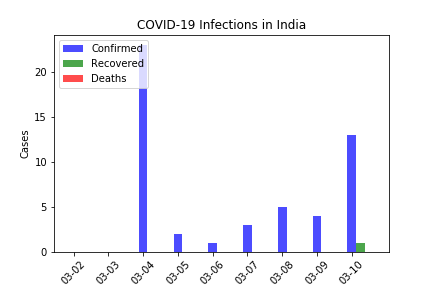
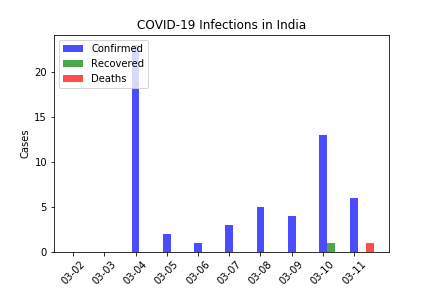
Update 2020-03-12 02:23:46

diff --git a/covid19.py b/covid19.py
@@ -32,16 +32,31 @@ def make_graph(country, start_date, show_score = False):
             country_correction = {'US': 'United States','Mainland China':'China'}
             population = CountryInfo(country_correction[country]).population()
     
-    for i in range(delta.days + 1):
-        day = (start_date + timedelta(days=i)).strftime('%m-%d-%Y')
-        r = requests.get(raw_link.format(day))
+    for i in range(delta.days):
+        day = (start_date + timedelta(days=i))
+        str_day = day.strftime('%m-%d-%Y')
+        r = requests.get(raw_link.format(str_day))
         sub_data = list()
+        
+        if day > date(2020, 3, 10):
+            # they changed the name
+            if country == 'Mainland China': country = 'China'
         
         if r.status_code == 404:
             break
         
         if country in countries_split_in_provinces:
             sub_total = {'posit':0, 'death':0, 'recov':0}
+            
+        matches = len(re.findall(country, r.text))
+        if matches == 0:
+            continue
+        elif matches == 1:
+            country_has_provincies = False
+        else:
+            country_has_provincies = True
+            sub_total = {'posit':0, 'death':0, 'recov':0}
+            
         
         rows = r.text.splitlines()
         for row in rows:
@@ -49,30 +64,33 @@ def make_graph(country, start_date, show_score = False):
             # Some country have a comma that creates troubble
             if len(row_slice) == 7 or len(row_slice) == 9:
                 row_slice[0:2] = [''.join(row_slice[0:2])]
-                
+            
             if country in provincies:
                 if re.match(country, row_slice[0]):
                     sub_data = row_slice
-            else: # country not in provincies
-                if re.match(country, row_slice[1]):
-                    sub_data = row_slice
-                
-                    if country in countries_split_in_provinces:
-                        sub_total['posit'] += int(sub_data[3])
-                        sub_total['death'] += int(sub_data[4])
-                        sub_total['recov'] += int(sub_data[5])
+            else:   
+                if country_has_provincies is False:
+                    if re.match(country, row_slice[1]):
+                        sub_data = row_slice
+                else:
+                    if re.match(country, row_slice[1]):
+                        sub_data = row_slice
+                    
+                        if country_has_provincies:
+                            sub_total['posit'] += int(sub_data[3])
+                            sub_total['death'] += int(sub_data[4])
+                            sub_total['recov'] += int(sub_data[5])
 
         if len(sub_data) == 0:
             continue
         else:
-            sub_data[2] = day[:5]
+            sub_data[2] = str_day[:5]
 
-            if country in countries_split_in_provinces:
+            if country_has_provincies:
                 sub_data[3] = sub_total['posit']
                 sub_data[4] = sub_total['death']
                 sub_data[5] = sub_total['recov']
         
-       
         data.append(sub_data)
         
     if len(data) == 1: # skip dataframe with only one entry
@@ -81,7 +99,7 @@ def make_graph(country, start_date, show_score = False):
     df = pd.DataFrame(data, columns=header)
     df = df.drop(columns= ['Province/State','Country/Region','Latitude', 'Longitude'])
     #df = df.drop(columns= ['Latitude', 'Longitude'])
-    
+
     df['Confirmed'] = df['Confirmed'].astype('int')
     df['Recovered'] = df['Recovered'].astype('int')
     df['Deaths'] = df['Deaths'].astype('int')
@@ -187,6 +205,7 @@ def main():
     
     # Asia
     make_graph('Mainland China', start_date)
+    '''
     make_graph('Hubei', start_date)
     make_graph('Zhejiang', start_date)
     make_graph('South Korea', start_date)
@@ -216,7 +235,6 @@ def main():
   
     # Americas
     make_graph('US', start_date)
-    make_graph('Washington', start_date)
     make_graph('Canada', start_date)
     make_graph('Argentina', start_date)
     make_graph('Cambodia', start_date)
@@ -231,7 +249,7 @@ def main():
     # Score
     make_graph('Italy', start_date, True)
     make_graph('Mainland China', start_date, True)
-   
+    '''
 if __name__ == "__main__":
     main()
     

diff --git a/README.md b/README.md
@@ -6,7 +6,7 @@ If you wish to add a Country open an [Issue](https://github.com/aster94/COVID-19
 It is based on the database from the [Johns Hopkins University](https://github.com/CSSEGISandData/COVID-19).
 
 # Graph
-Updated at 2020-03-11 12:47:01.
+Updated at 2020-03-12 02:23:46.
 
 ## Asia
 ![](/graph/Mainland%20China.png)
